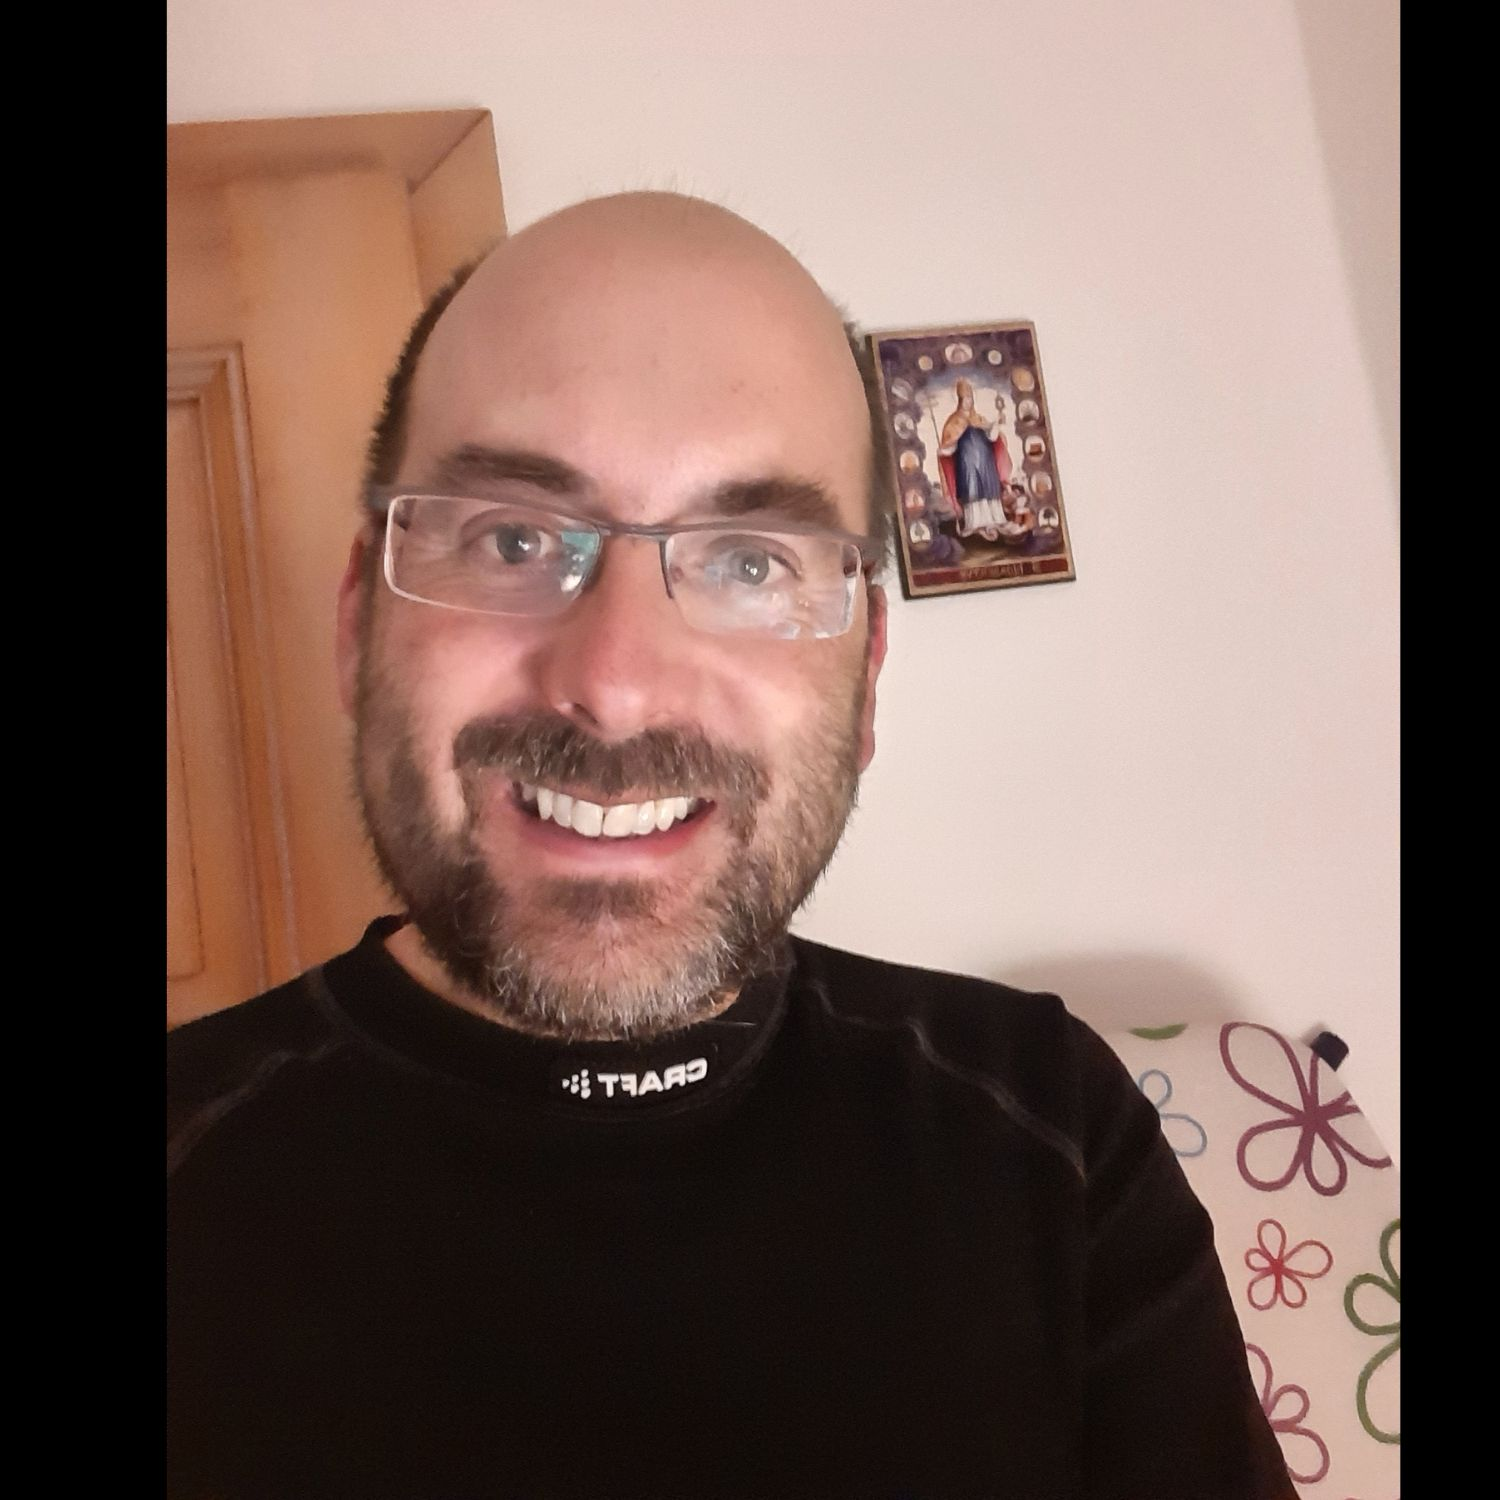
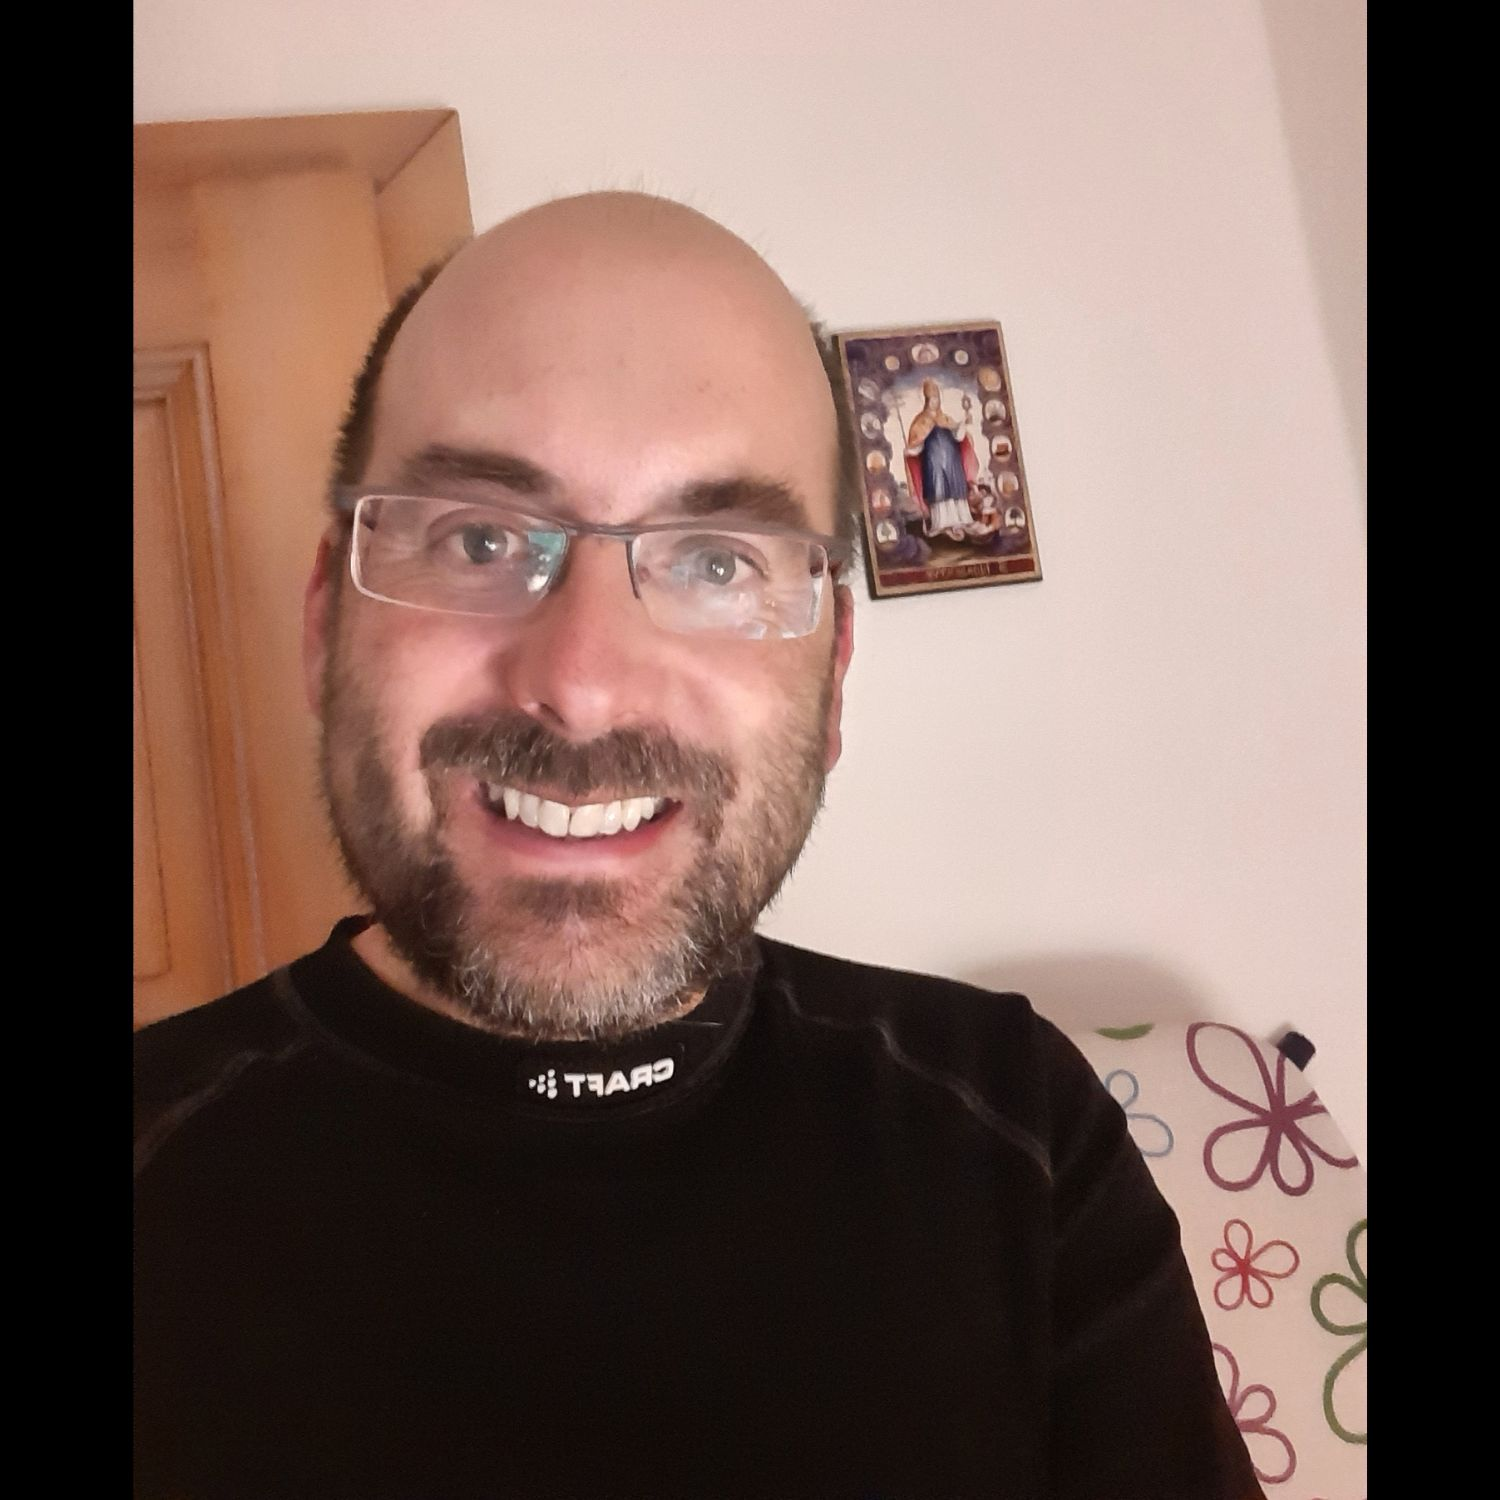
add ear, center rousar photo in frame

diff --git a/app/naslouchajici-usi/page.js b/app/naslouchajici-usi/page.js
@@ -199,4 +199,11 @@ const ears = [
     title: "Pokud máš nějaké otázky nebo pochybnosti, dotazy, na které se bojíš zeptat, něco, za co se chceš s někým pomodlit nebo třeba potřebuješ jen něco sdílet a nevíš s kým, jsem tu pro Tebe k dispozici.",
     about: "Už rok a půl jsem v komunitě na Hoješíně u Seče. Z mé služby na tomto místě mám nejraději čas s dětmi a mladými lidmi při výuce náboženství, spolčích nebo na akcích u nás. Jinak mě baví spousta věcí, od hraní na klavír, přes pečení, různé kreativní činnosti, hraní her, filmy až po historii."
   },
+  {
+    name: "sr. Romana Dvořáková",
+    jpgPath: "/assets/images/ears/dvorakova.jpg",
+    webpPath: "/assets/images/ears/dvorakova.webp",
+    title: "Máš pocit, že musíš žít podle očekávání druhých? Máš pocit, že mluvíš „řečí jiného kmene“ než tví rodiče? Jak skloubit víru se životem, který žiješ? Neboj se: JSI PRO MĚ DŮLEŽITÝ/Á! CHCI TI NASLOUCHAT A POSVÍTIT NA CESTU.",
+    about: "Sestra Romana Dvořáková je řádovou sestrou z generace X. Patří k vincentkám z komunity v Hradci Králové. Dříve pracovala se seniory, lidmi bez přístřeší a sociálně vyloučenými. Nyní pracuje jako terénní sociální pracovnice neziskovky Salinger – Triangl. Navštěvuje rodiny, ve kterých něco nefunguje (chybí denní režim, při výchově nejsou nastaveny hranice, děti nebo rodiče zažívají/zažili trauma, které se jim prolíná do současného života, …). Má ráda přírodu, procházky, rozhovory s lidmi, děti a mládež a hezké čtení."
+  },
 ];
